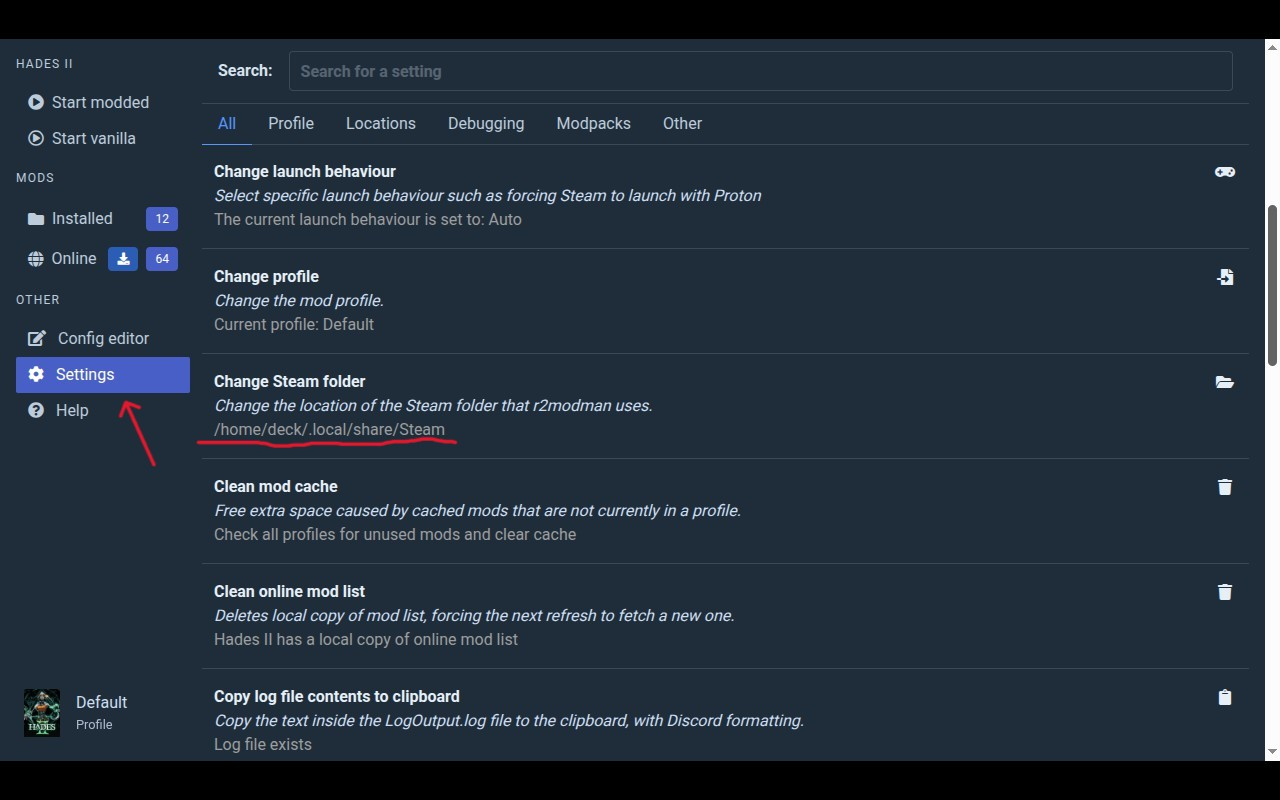
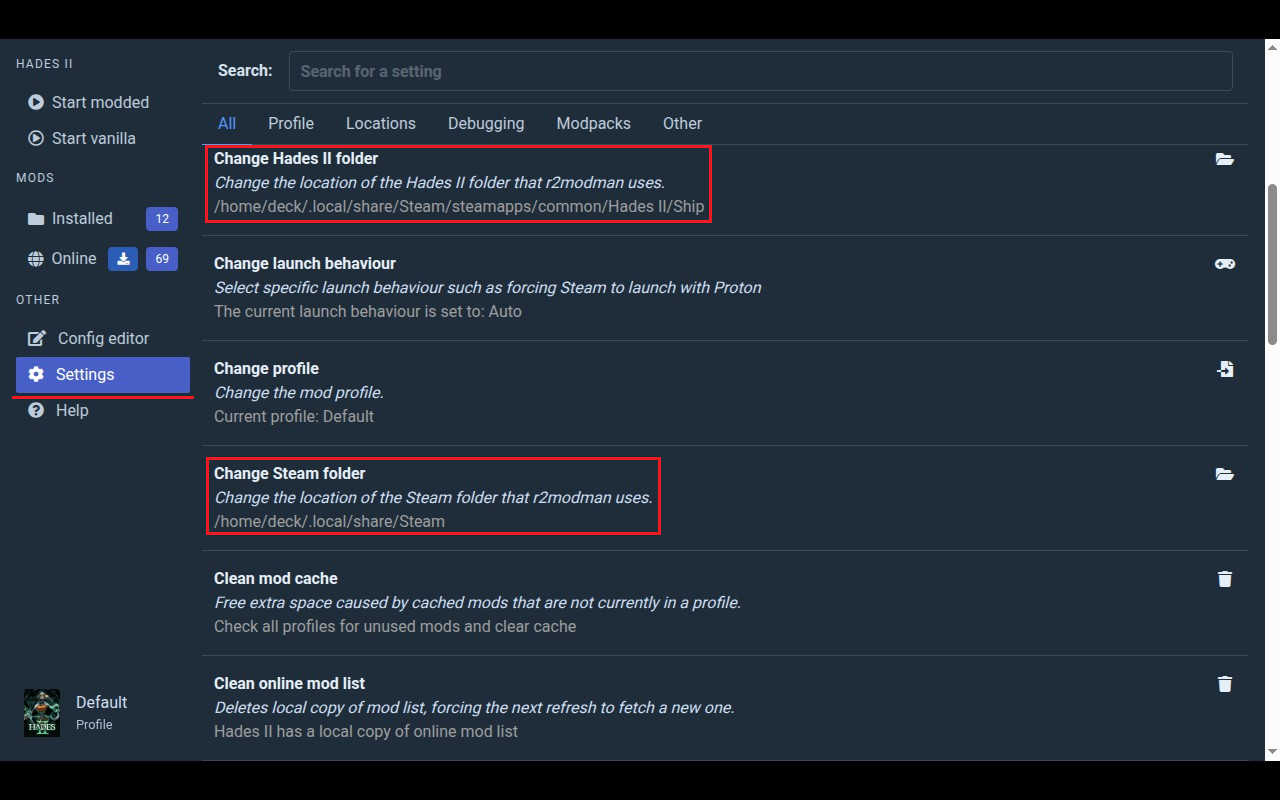
add h2 folder to steam config instructions

diff --git a/docs/installing-mods/steam-deck.md b/docs/installing-mods/steam-deck.md
@@ -47,7 +47,7 @@ chmod +x appimagelauncher-lite-2.2.0-travis995-0f91801-x86_64.AppImage
 - Locate **r2modman (version number)** in the list by *scrolling*, NOT **Browse**.
 - Select it and click **Add Selected Programs**.
 
-### 5. Start r2modman and set Steam directory
+### 5. Start r2modman and set Steam/Hades II directory
 - Open **Steam**. Mode shouldn't matter here.
 - Select **r2modman**.
 - Select **Hades II** as the game, and open the **Settings**.
@@ -56,6 +56,7 @@ chmod +x appimagelauncher-lite-2.2.0-travis995-0f91801-x86_64.AppImage
 When browsing for your **Steam** directory, the `.local` directory may be hidden by default. In this case, set your file browser to *show hidden files*.
 :::
 - Select **Change Steam folder**, and navigate to `/home/deck/.local/share/Steam`.
+- Select **Change Hades II folder**, and navigate to `/home/deck/.local/share/Steam/steamapps/common/Hades II/Ship`.
 
 Congratulations! You can now open **r2modman** in Gaming Mode, in the **Non-Steam** category of your library.
 
